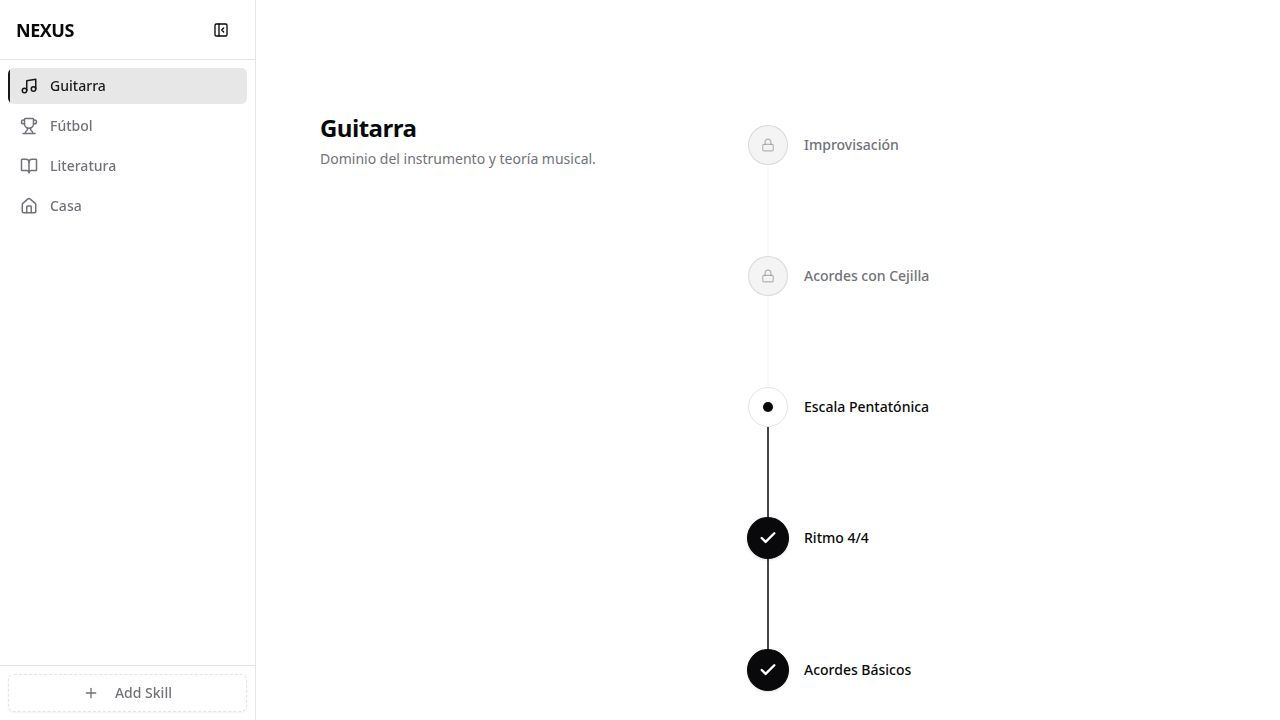
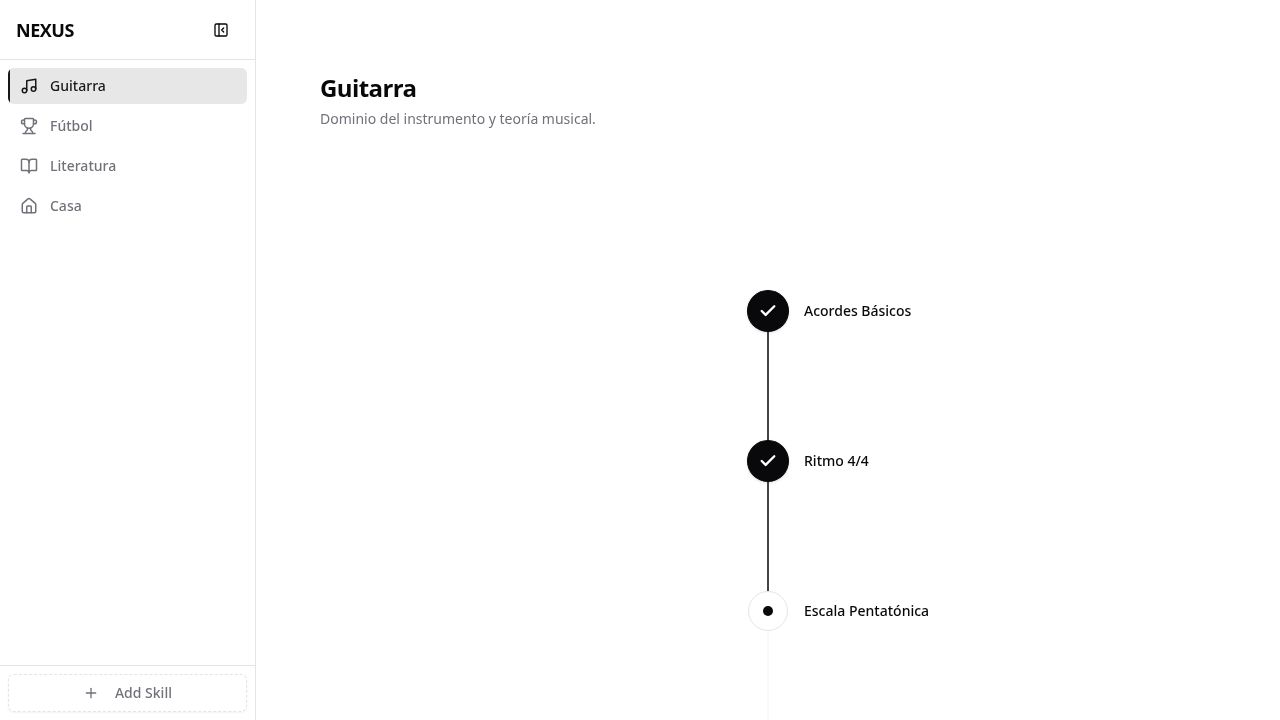
Add manual node locking and refine menu interactions
Implement a manual lock/unlock toggle for skill nodes within the context menu, adjust long-press sensitivity to 2 seconds for menu activation, and update the node deletion button to a simpler "Delete" label.

Replit-Commit-Author: Agent
Replit-Commit-Session-Id: f9ffa58a-5700-4f0b-8435-3b2fa830cdf1
Replit-Commit-Checkpoint-Type: full_checkpoint
Replit-Commit-Event-Id: 938938c9-c985-4fd9-b557-fe01ad26188c
Replit-Commit-Screenshot-Url: https://storage.googleapis.com/screenshot-production-us-central1/96775514-c2a0-4fe9-b097-1f2c5aaa07d0/f9ffa58a-5700-4f0b-8435-3b2fa830cdf1/GBNyuSK
Replit-Helium-Checkpoint-Created: true

diff --git a/client/src/lib/skill-context.tsx b/client/src/lib/skill-context.tsx
@@ -8,6 +8,7 @@ interface SkillTreeContextType {
   toggleSkillStatus: (areaId: string, skillId: string) => void;
   addSkill: (areaId: string, skill: Omit<Skill, "id">) => void;
   deleteSkill: (areaId: string, skillId: string) => void;
+  toggleLock: (areaId: string, skillId: string) => void;
   activeArea: Area | undefined;
 }
 
@@ -29,13 +30,32 @@ export function SkillTreeProvider({ children }: { children: React.ReactNode }) {
           if (skill.id !== skillId) return skill;
           
           const nextStatus: Record<SkillStatus, SkillStatus> = {
-            "locked": "locked", // Can't toggle locked manually usually, but for prototype maybe?
+            "locked": "locked", // Can't toggle locked manually via click, must use lock toggle
             "available": "mastered",
-            "mastered": "available" // Allow toggle back
+            "mastered": "available"
           };
           
-          // Logic: Can only toggle if dependencies are met (which they should be if it's available/mastered)
           return { ...skill, status: nextStatus[skill.status] };
+        })
+      };
+    }));
+  };
+
+  const toggleLock = (areaId: string, skillId: string) => {
+    setAreas(prev => prev.map(area => {
+      if (area.id !== areaId) return area;
+
+      return {
+        ...area,
+        skills: area.skills.map(skill => {
+          if (skill.id !== skillId) return skill;
+          
+          const isLocked = skill.status === "locked";
+          return { 
+            ...skill, 
+            status: isLocked ? "available" : "locked",
+            manualLock: !isLocked // If we are locking, set manualLock to true. If unlocking, false.
+          };
         })
       };
     }));
@@ -110,6 +130,7 @@ export function SkillTreeProvider({ children }: { children: React.ReactNode }) {
       const newAreas = prevAreas.map(area => {
         const newSkills = area.skills.map(skill => {
           if (skill.status !== "locked") return skill;
+          if (skill.manualLock) return skill; // Skip if manually locked
 
           // Check if all dependencies are mastered
           const dependencies = skill.dependencies.map(depId => 

diff --git a/client/src/components/SkillNode.tsx b/client/src/components/SkillNode.tsx
@@ -1,7 +1,7 @@
 import { motion } from "framer-motion";
 import { Skill } from "../data/skills";
 import { cn } from "@/lib/utils";
-import { Check, Lock, Trash2 } from "lucide-react";
+import { Check, Lock, Trash2, Unlock } from "lucide-react";
 import { useState, useRef, useEffect } from "react";
 import {
   Popover,
@@ -21,7 +21,7 @@ export function SkillNode({ skill, areaColor, onClick }: SkillNodeProps) {
   const isLocked = skill.status === "locked";
   const isMastered = skill.status === "mastered";
   
-  const { activeAreaId, deleteSkill } = useSkillTree();
+  const { activeAreaId, deleteSkill, toggleLock } = useSkillTree();
   const [isOpen, setIsOpen] = useState(false);
   const longPressTimer = useRef<NodeJS.Timeout | null>(null);
   const isLongPress = useRef(false);
@@ -123,7 +123,20 @@ export function SkillNode({ skill, areaColor, onClick }: SkillNodeProps) {
             </p>
           </div>
           
-          <div className="pt-2 border-t border-border flex justify-end">
+          <div className="pt-2 border-t border-border flex justify-end gap-2">
+             <Button 
+               variant="outline" 
+               size="sm" 
+               className="h-8 px-3 text-xs"
+               onClick={() => {
+                 toggleLock(activeAreaId, skill.id);
+                 setIsOpen(false);
+               }}
+             >
+               {isLocked ? <Unlock className="mr-2 h-3 w-3" /> : <Lock className="mr-2 h-3 w-3" />}
+               {isLocked ? "Unlock" : "Lock"}
+             </Button>
+
              <Button 
                variant="secondary" 
                size="sm" 
@@ -134,7 +147,7 @@ export function SkillNode({ skill, areaColor, onClick }: SkillNodeProps) {
                }}
              >
                <Trash2 className="mr-2 h-3 w-3" />
-               Delete Node
+               Delete
              </Button>
           </div>
         </div>

diff --git a/client/src/data/skills.ts b/client/src/data/skills.ts
@@ -8,8 +8,9 @@ export interface Skill {
   description: string;
   status: SkillStatus;
   x: number; // Percentage 0-100
-  y: number; // Percentage 0-100
+  y: number; // Pixels
   dependencies: string[];
+  manualLock?: boolean;
 }
 
 export interface Area {
